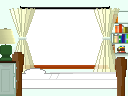
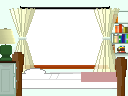
bedroom reach animation and final bedroom, needs shading

Changed region(s): [[0.625, 0.75, 0.9375, 0.875]]

diff --git a/src/stages/bedroom_sitting.rb b/src/stages/bedroom_sitting.rb
@@ -6,10 +6,10 @@ define_stage :bedroom_sitting do
 
     create_actor :starfield, x:320, y:240, layer: 1
     create_actor :moon, x:90, y:80, layer: 2
-    create_actor :bedroom_background, x:320, y:240, layer: 10
-    person = create_actor :bedroom_sitting, x:365, y:337, layer: 11, action: :idle
+
+    bedroom = create_actor :bedroom_background, x:320, y:240, layer: 10
+    person = create_actor :bedroom_sitting, x:305, y:265, layer: 11, action: :idle
     cat = create_actor :bedroom_cat, x:520, y:345, layer: 11, action: :idle
-    # behavior_factory.add_behavior person, :fading
 
     # idle breathe is 5 frames
     # two loops of breathing, then yawn
@@ -35,7 +35,25 @@ define_stage :bedroom_sitting do
     end
 
 
-    timer_manager.add_timer 'all_done', 30000 do
+    timer_manager.add_timer 'reach', 26000 do
+      timer_manager.remove_timer 'reach'
+      person.action = :reach
+    end
+
+    timer_manager.add_timer 'lights_off', 29200 do
+      timer_manager.remove_timer 'lights_off'
+      create_actor :bedroom_background_night, x:320, y:240, layer: 10
+      bedroom.remove
+    end
+
+    timer_manager.add_timer 'lay_in_bed', 34000 do
+      timer_manager.remove_timer 'lay_in_bed'
+      person.remove
+      create_actor :bedroom_covers, x:305, y:265, layer: 11
+    end
+
+
+    timer_manager.add_timer 'all_done', 44000 do
       fire :next_stage
     end
 

diff --git a/src/actors/bedroom_background_night.rb b/src/actors/bedroom_background_night.rb
@@ -1,0 +1,9 @@
+define_actor :bedroom_background_night do
+
+  has_behaviors do
+    graphical scale: 5
+    positioned
+    layered
+  end
+
+end

diff --git a/src/actors/bedroom_covers.rb b/src/actors/bedroom_covers.rb
@@ -1,0 +1,9 @@
+define_actor :bedroom_covers do
+
+  has_behaviors do
+    graphical scale: 5
+    positioned
+    layered
+  end
+
+end

diff --git a/README.md b/README.md
@@ -18,3 +18,8 @@ image = ChunkyPNG::Image.from_blob(texture)
 #   https://github.com/StanAngeloff/compass-magick/blob/master/lib/magick/functions/operations/effects.rb
 
 How to get back?  I don't know!  :)
+
+
+Bedroom dim:
+Saturation: -50%
+Lightness: -80%
